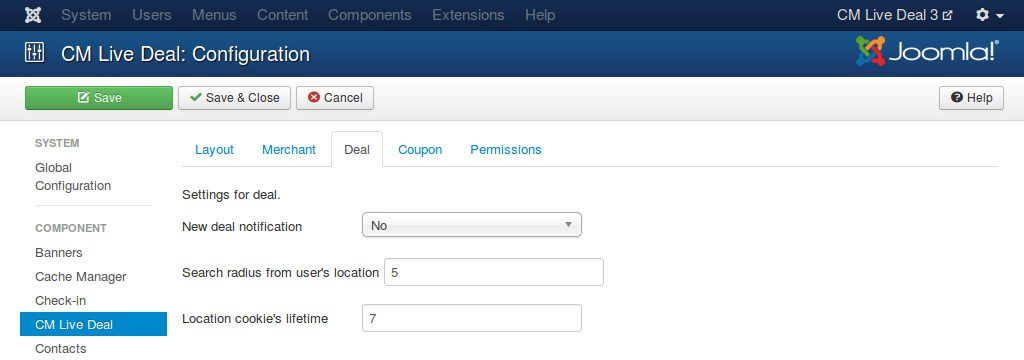
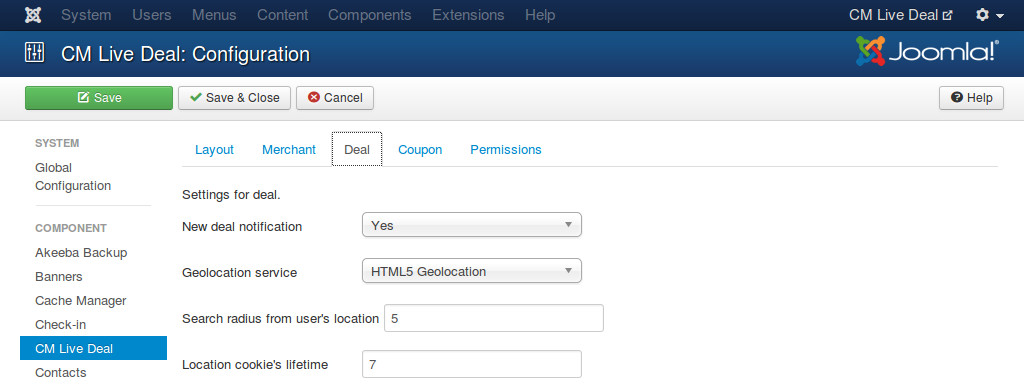
1.1.0

diff --git a/pages/searchdeals.rst b/pages/searchdeals.rst
@@ -8,7 +8,9 @@ By using CM Live Deal Search module, user can search for deals in all cities, in
 
 You can check :ref:`ref-mod_cmlivedeal_search` section to know how to setup the search  module.
 
-To detect user's location, CM Live Deal uses GeoLite2 data created by MaxMind, available from `http://www.maxmind.com <http://www.maxmind.com>`_.
+To detect user's location, You can use GeoLite2 data created by MaxMind, available from `http://www.maxmind.com <http://www.maxmind.com>`_, or use HTML5 Geolocation service.
+
+MaxMind service works on server side so it works in all browsers. HTML5 Geolocation works on client side, and not all browsers support HTML5 Geolocation, so dectecting user's location is not possible if user's browsrs is not supported.
 
 Get GeoLite2 City database
 --------------------------
@@ -32,10 +34,11 @@ On the toolbar, you click "Options" button.
 
 .. image:: ../images/com_cmlivedeal_dashboard.jpg
 
-Go to "Deal" tab and set the radius (in kilometer) to search for nearby deals from user's location and the cookie lifetime.
+Go to "Deal" tab, you select the Geolocatin service, set the radius (in kilometer) to search for nearby deals from user's location and set the cookie lifetime.
 
 .. image:: ../images/com_cmlivedeal_deal.jpg
 
+* **Geolocation service**: The service you use to detect user's location.
 * **Search radius from user's location**: The radius in kilometer to search for nearby deals of user. Default is 5 kilometers. This value is used when user searches for deals in his/her location by using the search module.
 * **Location cookie's lifetime**: Detect user's location requires reading the database file and make the server slow. User's location can be stored in cookie and reused later to reduce file reads from server. With this option you can set how many days this cookie is available. Default value is 7 (days). You can disable storing cookie by using 0 value.
 

diff --git a/pages/configuration.rst b/pages/configuration.rst
@@ -106,6 +106,7 @@ Deal
 .. image:: ../images/com_cmlivedeal_deal.jpg
 
 * **New deal notification**: Send email to administrators when there is a new deal submitted.
+* **Geolocation service**: The service you use to detect user's location.
 * **Search radius from user's location**: The radius in kilometer to search for nearby deals of user. Default is 5 kilometers. This value is used when user searches for deals in his/her location by using the search module.
 * **Location cookie's lifetime**: Detect user's location requires reading the database file and make the server slow. User's location can be stored in cookie and reused later to reduce the file reads from server. With this option you can set how many days this cookie is available. Default value is 7 (days). You can disable storing cookie by using 0 value. You can view :ref:`ref-search` for more information.
 
